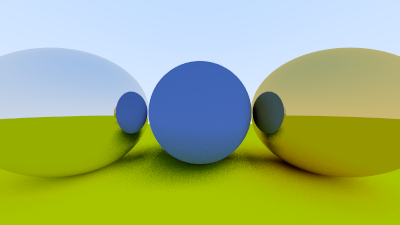
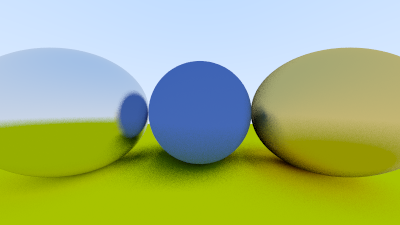
add fuzz to metal

Changed region(s): [[0.63, 0.3111, 1.0, 0.8089], [0.0, 0.4044, 0.39, 0.6222], [0.69, 0.28, 0.72, 0.3111]]

diff --git a/src/lib/material.rs b/src/lib/material.rs
@@ -36,6 +36,7 @@ impl Material for Lambertian {
 
 pub struct Metal {
   pub albedo: vector::Vector,
+  pub fuzz: f64,
 }
 
 impl Material for Metal {
@@ -46,9 +47,10 @@ impl Material for Metal {
     attenuation: &mut vector::Vector,
     scattered: &mut ray::Ray,
   ) -> bool {
-    let reflected = r_in.dir.reflect(rec.normal);
+    let reflected =
+      r_in.dir.reflect(rec.normal) + (vector::Vector::random_unit_vector() * self.fuzz);
     *scattered = ray::Ray::new(rec.point, reflected);
     *attenuation = self.albedo;
-    return true;
+    return scattered.dir.dot(&rec.normal) > 0.0;
   }
 }

diff --git a/src/main.rs b/src/main.rs
@@ -16,10 +16,12 @@ fn main() {
 
   let material_left = rc::Rc::new(material::Metal {
     albedo: vector::Vector::new(0.8, 0.8, 0.8),
+    fuzz: 0.3,
   });
 
   let material_right = rc::Rc::new(material::Metal {
     albedo: vector::Vector::new(0.8, 0.6, 0.2),
+    fuzz: 1.0,
   });
 
   // ground
